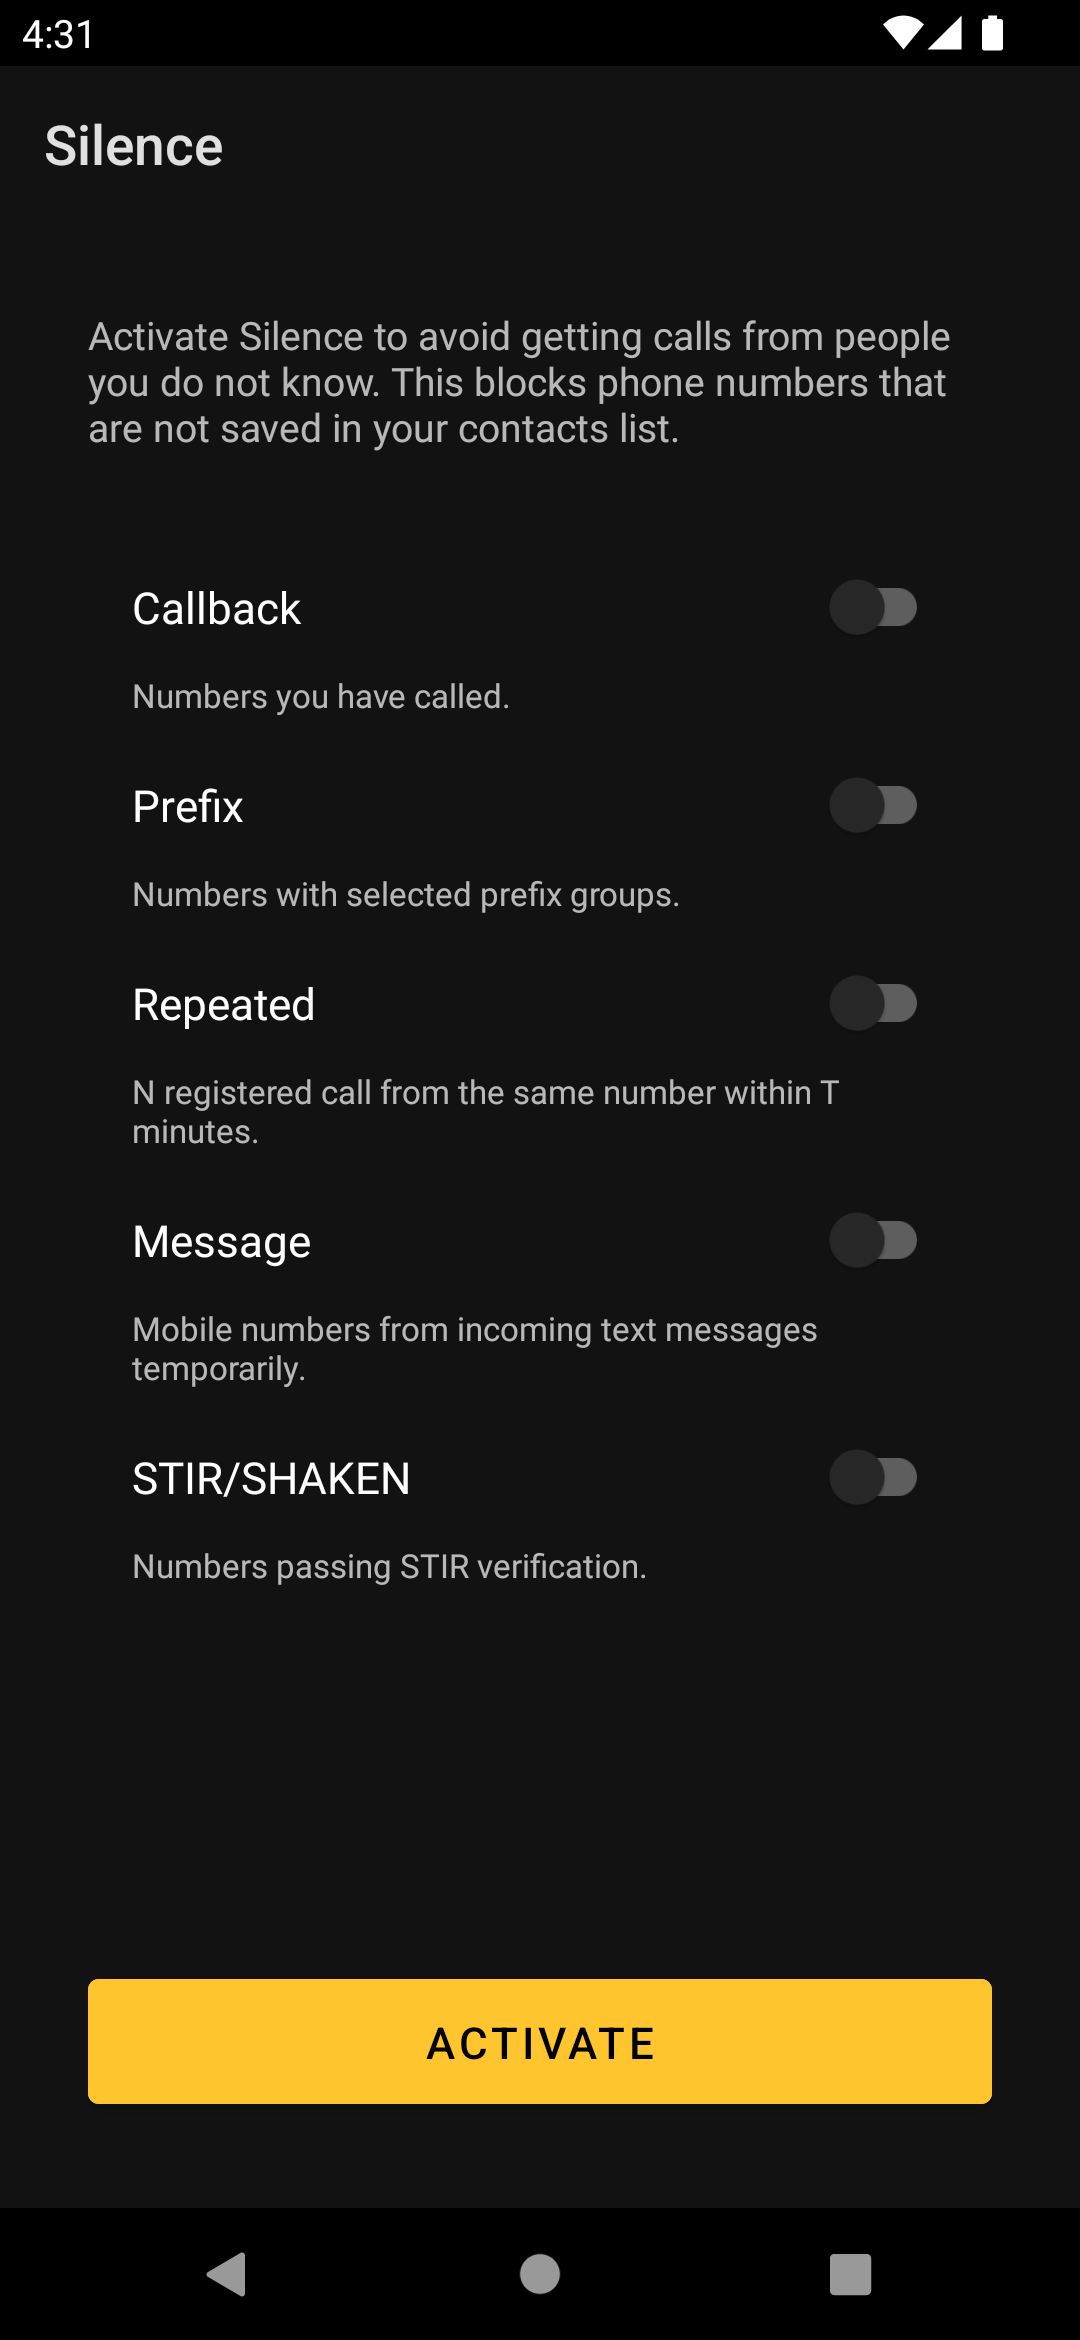
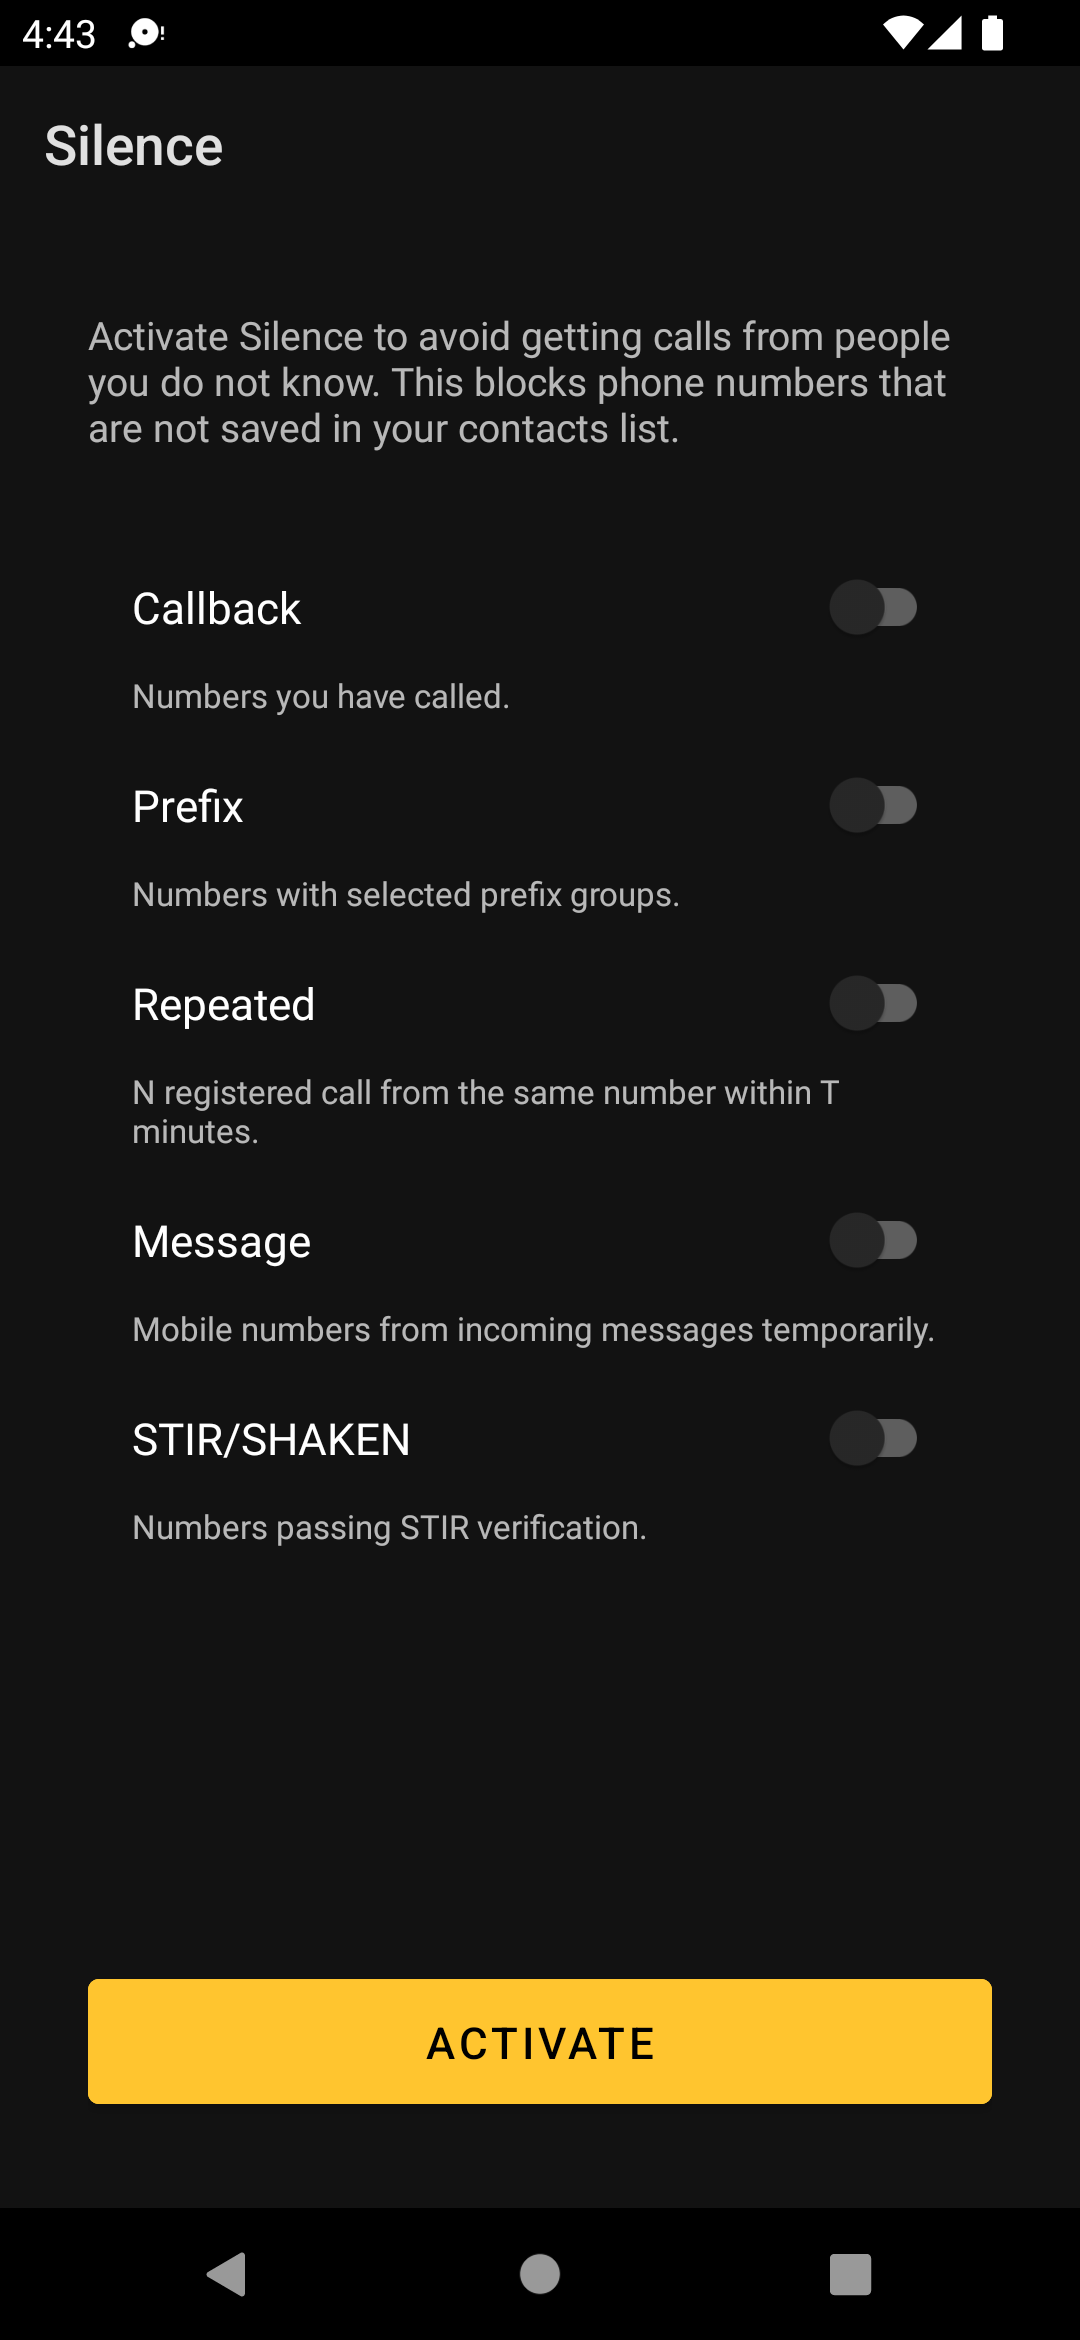
update strings

diff --git a/PRIVACY.md b/PRIVACY.md
@@ -1,4 +1,4 @@
 # Privacy Policy
 
-When `Message` switch is ON, the app will try get mobile phone numbers from incoming text messages 
-and store them in internal database to allow calls from them. All the data is stored on your device.
+When `Message` switch is ON, the app will try get mobile phone numbers from incoming messages and 
+store them in internal database to allow calls from them. All the data is stored on your device.

diff --git a/README.md b/README.md
@@ -24,7 +24,7 @@ Optionally allow:
 - Numbers you have called
 - Numbers with selected prefix groups
 - N registered call from the same number within T minutes
-- Mobile numbers from incoming text messages temporarily
+- Mobile numbers from incoming messages temporarily
 - Numbers passing STIR verification (Android 11)
 
 If the app rejects calls from contacts on Android 10, allow contacts permission manually in 
